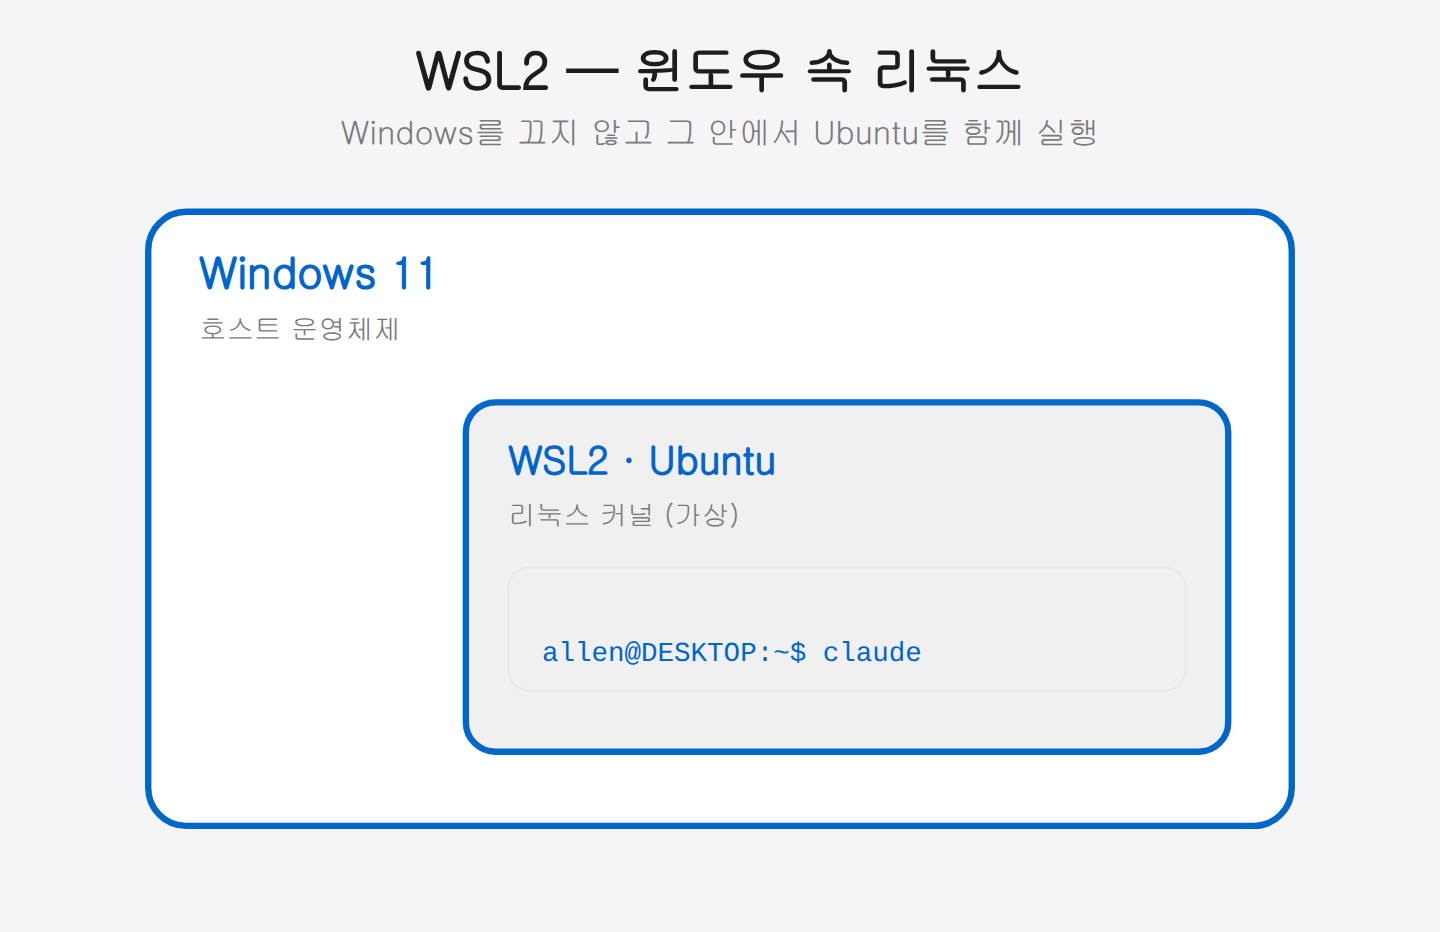
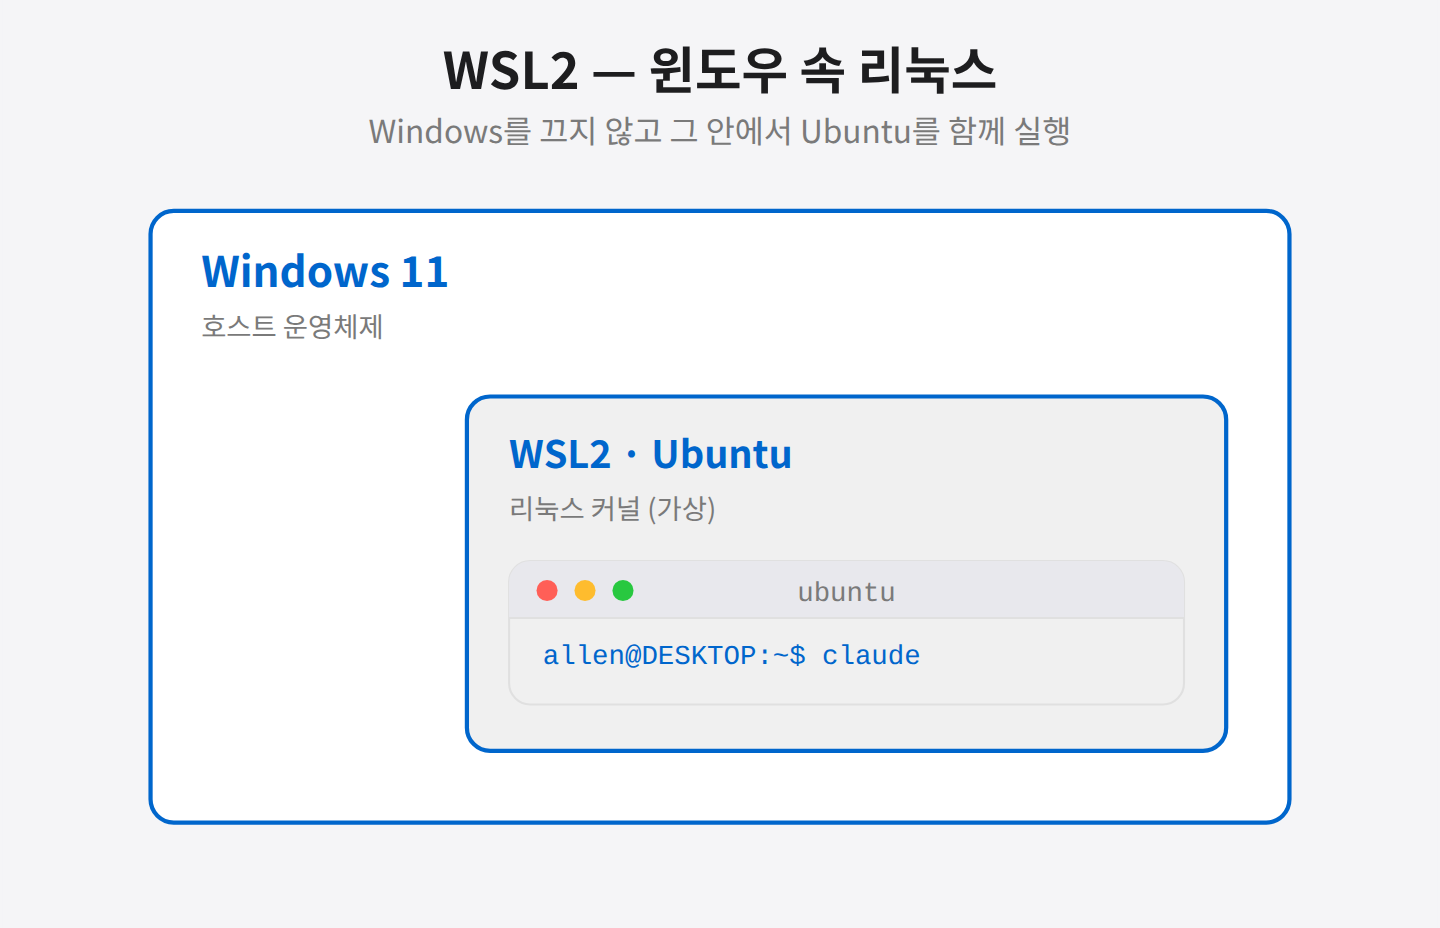
style(ch02): convert diagrams to Apple Light theme
Dark diagrams converted to Apple Light per LIGHT-MAP.md. In-place per
Allen approval. Verified dark-residual 0 (Taeyang 8x). png-only untouched.

diff --git a/assets/02-5-tmux-install-split-compare.svg.html b/assets/02-5-tmux-install-split-compare.svg.html
@@ -1,43 +1,78 @@
-<svg xmlns="http://www.w3.org/2000/svg" width="840" height="430" viewBox="0 0 840 430">
-<rect width="840" height="430" rx="0" fill="#1e1e2e"/>
-<text x="420.0" y="42" font-family="Noto Sans CJK KR, DejaVu Sans, sans-serif" font-size="24" fill="#cdd6f4" text-anchor="middle" font-weight="bold">파인 분할 — before / after</text>
-<text x="420.0" y="68" font-family="Noto Sans CJK KR, DejaVu Sans, sans-serif" font-size="15" fill="#a6adc8" text-anchor="middle" font-weight="normal">Ctrl+B %  좌우  ·  Ctrl+B "  상하</text>
-<rect x="40" y="130" width="200" height="24" rx="10" ry="10" fill="#45475a" opacity="1.0"/>
-<rect x="40" y="142.0" width="200" height="12.0" rx="0" ry="0" fill="#45475a" opacity="1.0"/>
-<circle cx="58" cy="142.0" r="5" fill="#f38ba8"/>
-<circle cx="76" cy="142.0" r="5" fill="#f9e2af"/>
-<circle cx="94" cy="142.0" r="5" fill="#a6e3a1"/>
-<text x="140.0" y="147.0" font-family="Noto Sans Mono CJK KR, DejaVu Sans Mono, monospace" font-size="14" fill="#a6adc8" text-anchor="middle" font-weight="normal">before</text>
-<rect x="40" y="130" width="200" height="200" rx="8" ry="8" fill="#181825" opacity="1.0" stroke="#45475a" stroke-width="1.5"/>
-<rect x="51.68" y="168.4" width="176.64" height="147.20000000000002" rx="5" ry="5" fill="#45475a" opacity="1.0" stroke="#89b4fa" stroke-width="1.5"/>
-<text x="140.0" y="358" font-family="Noto Sans CJK KR, DejaVu Sans, sans-serif" font-size="14" fill="#a6adc8" text-anchor="middle" font-weight="normal">파인 1개</text>
-<rect x="360" y="90" width="200" height="24" rx="10" ry="10" fill="#45475a" opacity="1.0"/>
-<rect x="360" y="102.0" width="200" height="12.0" rx="0" ry="0" fill="#45475a" opacity="1.0"/>
-<circle cx="378" cy="102.0" r="5" fill="#f38ba8"/>
-<circle cx="396" cy="102.0" r="5" fill="#f9e2af"/>
-<circle cx="414" cy="102.0" r="5" fill="#a6e3a1"/>
-<text x="460.0" y="107.0" font-family="Noto Sans Mono CJK KR, DejaVu Sans Mono, monospace" font-size="14" fill="#a6adc8" text-anchor="middle" font-weight="normal">Ctrl+B  %</text>
-<rect x="360" y="90" width="200" height="130" rx="8" ry="8" fill="#181825" opacity="1.0" stroke="#45475a" stroke-width="1.5"/>
-<rect x="371.68" y="125.6" width="86.47999999999999" height="82.8" rx="5" ry="5" fill="#45475a" opacity="1.0" stroke="#89b4fa" stroke-width="1.5"/>
-<rect x="461.84000000000003" y="125.6" width="86.47999999999999" height="82.8" rx="5" ry="5" fill="#45475a" opacity="1.0" stroke="#89b4fa" stroke-width="1.5"/>
-<text x="460" y="242" font-family="Noto Sans CJK KR, DejaVu Sans, sans-serif" font-size="14" fill="#a6e3a1" text-anchor="middle" font-weight="bold">좌우 분할</text>
-<rect x="360" y="270" width="200" height="24" rx="10" ry="10" fill="#45475a" opacity="1.0"/>
-<rect x="360" y="282.0" width="200" height="12.0" rx="0" ry="0" fill="#45475a" opacity="1.0"/>
-<circle cx="378" cy="282.0" r="5" fill="#f38ba8"/>
-<circle cx="396" cy="282.0" r="5" fill="#f9e2af"/>
-<circle cx="414" cy="282.0" r="5" fill="#a6e3a1"/>
-<text x="460.0" y="287.0" font-family="Noto Sans Mono CJK KR, DejaVu Sans Mono, monospace" font-size="14" fill="#a6adc8" text-anchor="middle" font-weight="normal">Ctrl+B  "</text>
-<rect x="360" y="270" width="200" height="130" rx="8" ry="8" fill="#181825" opacity="1.0" stroke="#45475a" stroke-width="1.5"/>
-<rect x="371.68" y="305.6" width="176.64" height="40.5" rx="5" ry="5" fill="#45475a" opacity="1.0" stroke="#89b4fa" stroke-width="1.5"/>
-<rect x="371.68" y="347.9" width="176.64" height="40.5" rx="5" ry="5" fill="#45475a" opacity="1.0" stroke="#89b4fa" stroke-width="1.5"/>
-<text x="460" y="422" font-family="Noto Sans CJK KR, DejaVu Sans, sans-serif" font-size="14" fill="#fab387" text-anchor="middle" font-weight="bold">상하 분할</text>
-<line x1="248" y1="200.0" x2="352" y2="155" stroke="#a6e3a1" stroke-width="2.6"/>
-<polygon points="352.0,155.0 346.6,162.2 343.1,154.0" fill="#a6e3a1"/>
-<line x1="248" y1="260.0" x2="352" y2="335" stroke="#fab387" stroke-width="2.6"/>
-<polygon points="352.0,335.0 343.0,334.1 348.3,326.8" fill="#fab387"/>
-<rect x="620" y="150" width="190" height="160" rx="12" ry="12" fill="#313244" opacity="1.0" stroke="#585b70" stroke-width="1.5"/>
-<text x="715" y="180" font-family="Noto Sans CJK KR, DejaVu Sans, sans-serif" font-size="15" fill="#89b4fa" text-anchor="middle" font-weight="bold">프리픽스 키</text>
-<text x="715" y="214" font-family="Noto Sans Mono CJK KR, DejaVu Sans Mono, monospace" font-size="14" fill="#cdd6f4" text-anchor="middle" font-weight="normal">Ctrl+B 를 먼저</text>
-<text x="715" y="238" font-family="Noto Sans Mono CJK KR, DejaVu Sans Mono, monospace" font-size="14" fill="#cdd6f4" text-anchor="middle" font-weight="normal">누르고 뗀 다음</text>
-<text x="715" y="270" font-family="Noto Sans Mono CJK KR, DejaVu Sans Mono, monospace" font-size="16" fill="#a6e3a1" text-anchor="middle" font-weight="bold">% 또는 "</text>
+<svg xmlns="http://www.w3.org/2000/svg" width="720" height="560" viewBox="0 0 720 560">
+  <defs>
+    <marker id="arL" viewBox="0 0 10 10" refX="9" refY="5" markerWidth="6" markerHeight="6" orient="auto">
+      <path d="M0,1 L9,5 L0,9 z" fill="#0066cc"/>
+    </marker>
+    <marker id="arR" viewBox="0 0 10 10" refX="9" refY="5" markerWidth="6" markerHeight="6" orient="auto">
+      <path d="M0,1 L9,5 L0,9 z" fill="#0066cc"/>
+    </marker>
+  </defs>
+  <rect width="720" height="560" fill="#f5f5f7"/>
+  <text x="360" y="38" font-family="Malgun Gothic, Noto Sans CJK KR, Arial, sans-serif" font-size="22" fill="#1d1d1f" text-anchor="middle" font-weight="bold">파인 분할 — before / after</text>
+  <text x="360" y="60" font-family="Courier New, Consolas, DejaVu Sans Mono, monospace" font-size="14" fill="#7a7a7a" text-anchor="middle" font-weight="normal">Ctrl+B %  좌우  ·  Ctrl+B "  상하</text>
+
+  <!-- ── BEFORE terminal (top center) ── -->
+  <!-- Window bg -->
+  <rect x="200" y="80" width="320" height="150" rx="10" ry="10" fill="#f0f0f0" stroke="#e0e0e0" stroke-width="1.5"/>
+  <!-- Title bar -->
+  <rect x="200" y="80" width="320" height="26" rx="10" ry="10" fill="#e8e8ed"/>
+  <rect x="200" y="94" width="320" height="12" rx="0" ry="0" fill="#e8e8ed"/>
+  <!-- Traffic lights -->
+  <circle cx="218" cy="93" r="5" fill="#ff5f57"/>
+  <circle cx="236" cy="93" r="5" fill="#febc2e"/>
+  <circle cx="254" cy="93" r="5" fill="#28c840"/>
+  <!-- Title -->
+  <text x="360" y="98" font-family="Courier New, Consolas, DejaVu Sans Mono, monospace" font-size="13" fill="#7a7a7a" text-anchor="middle">before</text>
+  <!-- Divider -->
+  <line x1="200" y1="106" x2="520" y2="106" stroke="#e0e0e0" stroke-width="1"/>
+  <!-- Single pane inside -->
+  <rect x="212" y="112" width="296" height="106" rx="8" ry="8" fill="#e8e8ed" stroke="#0066cc" stroke-width="1.5"/>
+  <!-- "파인 1개" label -->
+  <text x="360" y="248" font-family="Malgun Gothic, Noto Sans CJK KR, Arial, sans-serif" font-size="14" fill="#7a7a7a" text-anchor="middle" font-weight="normal">파인 1개</text>
+
+  <!-- ── Arrows from before to after states ── -->
+  <line x1="280" y1="232" x2="175" y2="290" stroke="#0066cc" stroke-width="2.4" marker-end="url(#arL)"/>
+  <line x1="440" y1="232" x2="545" y2="290" stroke="#0066cc" stroke-width="2.4" marker-end="url(#arR)"/>
+
+  <!-- ── AFTER LEFT: 좌우 분할 ── -->
+  <!-- Title bar hint -->
+  <text x="175" y="270" font-family="Courier New, Consolas, DejaVu Sans Mono, monospace" font-size="12" fill="#0066cc" text-anchor="middle">Ctrl+B  %</text>
+  <!-- Window bg -->
+  <rect x="30" y="298" width="290" height="150" rx="10" ry="10" fill="#f0f0f0" stroke="#e0e0e0" stroke-width="1.5"/>
+  <!-- Title bar -->
+  <rect x="30" y="298" width="290" height="26" rx="10" ry="10" fill="#e8e8ed"/>
+  <rect x="30" y="312" width="290" height="12" rx="0" ry="0" fill="#e8e8ed"/>
+  <!-- Traffic lights -->
+  <circle cx="48" cy="311" r="5" fill="#ff5f57"/>
+  <circle cx="66" cy="311" r="5" fill="#febc2e"/>
+  <circle cx="84" cy="311" r="5" fill="#28c840"/>
+  <line x1="30" y1="324" x2="320" y2="324" stroke="#e0e0e0" stroke-width="1"/>
+  <!-- Two side-by-side panes -->
+  <rect x="42" y="330" width="130" height="106" rx="6" ry="6" fill="#e8e8ed" stroke="#0066cc" stroke-width="1.5"/>
+  <rect x="178" y="330" width="130" height="106" rx="6" ry="6" fill="#e8e8ed" stroke="#0066cc" stroke-width="1.5"/>
+  <!-- Label -->
+  <text x="175" y="468" font-family="Malgun Gothic, Noto Sans CJK KR, Arial, sans-serif" font-size="14" fill="#0066cc" text-anchor="middle" font-weight="bold">좌우 분할</text>
+
+  <!-- ── AFTER RIGHT: 상하 분할 ── -->
+  <text x="545" y="270" font-family="Courier New, Consolas, DejaVu Sans Mono, monospace" font-size="12" fill="#0066cc" text-anchor="middle">Ctrl+B  "</text>
+  <!-- Window bg -->
+  <rect x="400" y="298" width="290" height="150" rx="10" ry="10" fill="#f0f0f0" stroke="#e0e0e0" stroke-width="1.5"/>
+  <!-- Title bar -->
+  <rect x="400" y="298" width="290" height="26" rx="10" ry="10" fill="#e8e8ed"/>
+  <rect x="400" y="312" width="290" height="12" rx="0" ry="0" fill="#e8e8ed"/>
+  <!-- Traffic lights -->
+  <circle cx="418" cy="311" r="5" fill="#ff5f57"/>
+  <circle cx="436" cy="311" r="5" fill="#febc2e"/>
+  <circle cx="454" cy="311" r="5" fill="#28c840"/>
+  <line x1="400" y1="324" x2="690" y2="324" stroke="#e0e0e0" stroke-width="1"/>
+  <!-- Two stacked panes -->
+  <rect x="412" y="330" width="266" height="50" rx="6" ry="6" fill="#e8e8ed" stroke="#0066cc" stroke-width="1.5"/>
+  <rect x="412" y="386" width="266" height="50" rx="6" ry="6" fill="#e8e8ed" stroke="#0066cc" stroke-width="1.5"/>
+  <!-- Label -->
+  <text x="545" y="468" font-family="Malgun Gothic, Noto Sans CJK KR, Arial, sans-serif" font-size="14" fill="#0066cc" text-anchor="middle" font-weight="bold">상하 분할</text>
+
+  <!-- ── Info box (프리픽스 키) ── -->
+  <rect x="195" y="490" width="330" height="56" rx="11" ry="11" fill="#ffffff" stroke="#e0e0e0" stroke-width="1.5"/>
+  <text x="360" y="512" font-family="Malgun Gothic, Noto Sans CJK KR, Arial, sans-serif" font-size="14" fill="#0066cc" text-anchor="middle" font-weight="bold">프리픽스 키</text>
+  <text x="360" y="534" font-family="Courier New, Consolas, DejaVu Sans Mono, monospace" font-size="13" fill="#1d1d1f" text-anchor="middle">Ctrl+B 먼저 누르고 뗀 후 →  %  또는  "</text>
 </svg>

diff --git a/assets/02-2-windows-wsl2-windows-in-linux.svg.html b/assets/02-2-windows-wsl2-windows-in-linux.svg.html
@@ -1,19 +1,28 @@
-<svg xmlns="http://www.w3.org/2000/svg" width="680" height="440" viewBox="0 0 680 440">
-<rect width="680" height="440" rx="0" fill="#1e1e2e"/>
-<text x="340.0" y="42" font-family="Noto Sans CJK KR, DejaVu Sans, sans-serif" font-size="24" fill="#cdd6f4" text-anchor="middle" font-weight="bold">WSL2 — 윈도우 속 리눅스</text>
-<text x="340.0" y="68" font-family="Noto Sans CJK KR, DejaVu Sans, sans-serif" font-size="15" fill="#a6adc8" text-anchor="middle" font-weight="normal">Windows를 끄지 않고 그 안에서 Ubuntu를 함께 실행</text>
-<rect x="70" y="100" width="540" height="290" rx="18" ry="18" fill="#313244" opacity="1.0" stroke="#89b4fa" stroke-width="3"/>
-<text x="94" y="136" font-family="Noto Sans CJK KR, DejaVu Sans, sans-serif" font-size="20" fill="#89b4fa" text-anchor="start" font-weight="bold">Windows 11</text>
-<text x="94" y="160" font-family="Noto Sans CJK KR, DejaVu Sans, sans-serif" font-size="13" fill="#a6adc8" text-anchor="start" font-weight="normal">호스트 운영체제</text>
-<rect x="220" y="190" width="360" height="165" rx="14" ry="14" fill="#181825" opacity="1.0" stroke="#fab387" stroke-width="3"/>
-<text x="240" y="224" font-family="Noto Sans CJK KR, DejaVu Sans, sans-serif" font-size="18" fill="#fab387" text-anchor="start" font-weight="bold">WSL2 · Ubuntu</text>
-<text x="240" y="248" font-family="Noto Sans CJK KR, DejaVu Sans, sans-serif" font-size="13" fill="#a6adc8" text-anchor="start" font-weight="normal">리눅스 커널 (가상)</text>
-<rect x="240" y="268" width="320" height="30" rx="10" ry="10" fill="#45475a" opacity="1.0"/>
-<rect x="240" y="283.0" width="320" height="15.0" rx="0" ry="0" fill="#45475a" opacity="1.0"/>
-<circle cx="258" cy="283.0" r="5" fill="#f38ba8"/>
-<circle cx="276" cy="283.0" r="5" fill="#f9e2af"/>
-<circle cx="294" cy="283.0" r="5" fill="#a6e3a1"/>
-<text x="400.0" y="288.0" font-family="Noto Sans Mono CJK KR, DejaVu Sans Mono, monospace" font-size="14" fill="#a6adc8" text-anchor="middle" font-weight="normal">ubuntu</text>
-<rect x="240" y="268" width="320" height="58" rx="10" ry="10" fill="#11111b" opacity="1.0" stroke="#45475a" stroke-width="1"/>
-<text x="256" y="312" font-family="Noto Sans Mono CJK KR, DejaVu Sans Mono, monospace" font-size="13" fill="#a6e3a1" text-anchor="start" font-weight="normal">allen@DESKTOP:~$ claude</text>
+<svg xmlns="http://www.w3.org/2000/svg" width="720" height="464" viewBox="0 0 680 440">
+  <rect width="680" height="440" fill="#f5f5f7"/>
+  <text x="340" y="42" font-family="Malgun Gothic, Noto Sans CJK KR, Arial, sans-serif" font-size="24" fill="#1d1d1f" text-anchor="middle" font-weight="bold">WSL2 — 윈도우 속 리눅스</text>
+  <text x="340" y="68" font-family="Malgun Gothic, Noto Sans CJK KR, Arial, sans-serif" font-size="15" fill="#7a7a7a" text-anchor="middle" font-weight="normal">Windows를 끄지 않고 그 안에서 Ubuntu를 함께 실행</text>
+  <!-- Windows 11 outer box -->
+  <rect x="70" y="100" width="540" height="290" rx="11" ry="11" fill="#ffffff" stroke="#0066cc" stroke-width="2"/>
+  <text x="94" y="136" font-family="Malgun Gothic, Noto Sans CJK KR, Arial, sans-serif" font-size="20" fill="#0066cc" text-anchor="start" font-weight="bold">Windows 11</text>
+  <text x="94" y="160" font-family="Malgun Gothic, Noto Sans CJK KR, Arial, sans-serif" font-size="13" fill="#7a7a7a" text-anchor="start" font-weight="normal">호스트 운영체제</text>
+  <!-- WSL2/Ubuntu inner box -->
+  <rect x="220" y="188" width="360" height="168" rx="11" ry="11" fill="#f0f0f0" stroke="#0066cc" stroke-width="2"/>
+  <text x="240" y="222" font-family="Malgun Gothic, Noto Sans CJK KR, Arial, sans-serif" font-size="18" fill="#0066cc" text-anchor="start" font-weight="bold">WSL2 · Ubuntu</text>
+  <text x="240" y="246" font-family="Malgun Gothic, Noto Sans CJK KR, Arial, sans-serif" font-size="13" fill="#7a7a7a" text-anchor="start" font-weight="normal">리눅스 커널 (가상)</text>
+  <!-- Terminal window: bg first, then title bar on top -->
+  <rect x="240" y="266" width="320" height="68" rx="10" ry="10" fill="#f0f0f0" stroke="#e0e0e0" stroke-width="1"/>
+  <!-- Title bar strip (on top of bg) -->
+  <rect x="240" y="266" width="320" height="27" rx="10" ry="10" fill="#e8e8ed"/>
+  <rect x="240" y="280" width="320" height="13" rx="0" ry="0" fill="#e8e8ed"/>
+  <!-- Traffic lights (r=5 → keep system colors per LIGHT-MAP §1) -->
+  <circle cx="258" cy="280" r="5" fill="#ff5f57"/>
+  <circle cx="276" cy="280" r="5" fill="#febc2e"/>
+  <circle cx="294" cy="280" r="5" fill="#28c840"/>
+  <!-- Title text -->
+  <text x="400" y="285" font-family="Courier New, Consolas, DejaVu Sans Mono, monospace" font-size="13" fill="#7a7a7a" text-anchor="middle" font-weight="normal">ubuntu</text>
+  <!-- Terminal divider line -->
+  <line x1="240" y1="293" x2="560" y2="293" stroke="#e0e0e0" stroke-width="1"/>
+  <!-- Terminal prompt text -->
+  <text x="256" y="315" font-family="Courier New, Consolas, DejaVu Sans Mono, monospace" font-size="13" fill="#0066cc" text-anchor="start" font-weight="normal">allen@DESKTOP:~$ claude</text>
 </svg>

diff --git a/assets/02-5-tmux-install-session-window-pane.svg.html b/assets/02-5-tmux-install-session-window-pane.svg.html
@@ -1,18 +1,24 @@
-<svg xmlns="http://www.w3.org/2000/svg" width="700" height="480" viewBox="0 0 700 480">
-<rect width="700" height="480" rx="0" fill="#1e1e2e"/>
-<text x="350.0" y="42" font-family="Noto Sans CJK KR, DejaVu Sans, sans-serif" font-size="24" fill="#cdd6f4" text-anchor="middle" font-weight="bold">TMUX 3계층 구조</text>
-<text x="350.0" y="68" font-family="Noto Sans CJK KR, DejaVu Sans, sans-serif" font-size="15" fill="#a6adc8" text-anchor="middle" font-weight="normal">세션 ⊃ 윈도우 ⊃ 파인</text>
-<rect x="70" y="100" width="560" height="320" rx="18" ry="18" fill="#313244" opacity="1.0" stroke="#89b4fa" stroke-width="3"/>
-<text x="94" y="136" font-family="Noto Sans CJK KR, DejaVu Sans, sans-serif" font-size="20" fill="#89b4fa" text-anchor="start" font-weight="bold">세션 (Session)</text>
-<text x="94" y="158" font-family="Noto Sans CJK KR, DejaVu Sans, sans-serif" font-size="13" fill="#a6adc8" text-anchor="start" font-weight="normal">최상위 단위 · 닫아도 백그라운드 유지</text>
-<rect x="110" y="178" width="480" height="210" rx="14" ry="14" fill="#181825" opacity="1.0" stroke="#fab387" stroke-width="2"/>
-<text x="130" y="210" font-family="Noto Sans CJK KR, DejaVu Sans, sans-serif" font-size="18" fill="#fab387" text-anchor="start" font-weight="bold">윈도우 (Window)</text>
-<text x="130" y="230" font-family="Noto Sans CJK KR, DejaVu Sans, sans-serif" font-size="12.5" fill="#a6adc8" text-anchor="start" font-weight="normal">세션 안의 탭 · 전체 화면 하나</text>
-<rect x="134" y="246" width="210.0" height="118" rx="10" ry="10" fill="#45475a" opacity="1.0" stroke="#a6e3a1" stroke-width="2"/>
-<text x="239.0" y="310.0" font-family="Noto Sans CJK KR, DejaVu Sans, sans-serif" font-size="16" fill="#a6e3a1" text-anchor="middle" font-weight="bold">파인 0</text>
-<rect x="356.0" y="246" width="210.0" height="53.0" rx="10" ry="10" fill="#45475a" opacity="1.0" stroke="#a6e3a1" stroke-width="2"/>
-<text x="461.0" y="277.5" font-family="Noto Sans CJK KR, DejaVu Sans, sans-serif" font-size="16" fill="#a6e3a1" text-anchor="middle" font-weight="bold">파인 1</text>
-<rect x="356.0" y="311.0" width="210.0" height="53.0" rx="10" ry="10" fill="#45475a" opacity="1.0" stroke="#a6e3a1" stroke-width="2"/>
-<text x="461.0" y="342.5" font-family="Noto Sans CJK KR, DejaVu Sans, sans-serif" font-size="16" fill="#a6e3a1" text-anchor="middle" font-weight="bold">파인 2</text>
-<text x="350.0" y="386" font-family="Noto Sans CJK KR, DejaVu Sans, sans-serif" font-size="13" fill="#a6e3a1" text-anchor="middle" font-weight="normal">파인 (Pane) — 각자 독립 쉘</text>
+<svg xmlns="http://www.w3.org/2000/svg" width="720" height="494" viewBox="0 0 700 480">
+  <rect width="700" height="480" fill="#f5f5f7"/>
+  <text x="350" y="42" font-family="Malgun Gothic, Noto Sans CJK KR, Arial, sans-serif" font-size="24" fill="#1d1d1f" text-anchor="middle" font-weight="bold">TMUX 3계층 구조</text>
+  <text x="350" y="68" font-family="Malgun Gothic, Noto Sans CJK KR, Arial, sans-serif" font-size="15" fill="#7a7a7a" text-anchor="middle" font-weight="normal">세션 ⊃ 윈도우 ⊃ 파인</text>
+  <!-- Session box (outermost) -->
+  <rect x="70" y="100" width="560" height="320" rx="11" ry="11" fill="#ffffff" stroke="#0066cc" stroke-width="2"/>
+  <text x="94" y="136" font-family="Malgun Gothic, Noto Sans CJK KR, Arial, sans-serif" font-size="20" fill="#0066cc" text-anchor="start" font-weight="bold">세션 (Session)</text>
+  <text x="94" y="158" font-family="Malgun Gothic, Noto Sans CJK KR, Arial, sans-serif" font-size="13" fill="#7a7a7a" text-anchor="start" font-weight="normal">최상위 단위 · 닫아도 백그라운드 유지</text>
+  <!-- Window box -->
+  <rect x="110" y="178" width="480" height="210" rx="11" ry="11" fill="#f0f0f0" stroke="#0066cc" stroke-width="1.5"/>
+  <text x="130" y="210" font-family="Malgun Gothic, Noto Sans CJK KR, Arial, sans-serif" font-size="18" fill="#0066cc" text-anchor="start" font-weight="bold">윈도우 (Window)</text>
+  <text x="130" y="230" font-family="Malgun Gothic, Noto Sans CJK KR, Arial, sans-serif" font-size="12.5" fill="#7a7a7a" text-anchor="start" font-weight="normal">세션 안의 탭 · 전체 화면 하나</text>
+  <!-- Pane 0 (left, tall) -->
+  <rect x="134" y="246" width="210" height="118" rx="10" ry="10" fill="#e8e8ed" stroke="#0066cc" stroke-width="1.5"/>
+  <text x="239" y="310" font-family="Malgun Gothic, Noto Sans CJK KR, Arial, sans-serif" font-size="16" fill="#0066cc" text-anchor="middle" font-weight="bold">파인 0</text>
+  <!-- Pane 1 (right top) -->
+  <rect x="356" y="246" width="210" height="53" rx="10" ry="10" fill="#e8e8ed" stroke="#0066cc" stroke-width="1.5"/>
+  <text x="461" y="278" font-family="Malgun Gothic, Noto Sans CJK KR, Arial, sans-serif" font-size="16" fill="#0066cc" text-anchor="middle" font-weight="bold">파인 1</text>
+  <!-- Pane 2 (right bottom) -->
+  <rect x="356" y="311" width="210" height="53" rx="10" ry="10" fill="#e8e8ed" stroke="#0066cc" stroke-width="1.5"/>
+  <text x="461" y="343" font-family="Malgun Gothic, Noto Sans CJK KR, Arial, sans-serif" font-size="16" fill="#0066cc" text-anchor="middle" font-weight="bold">파인 2</text>
+  <!-- Bottom label inside window box -->
+  <text x="350" y="386" font-family="Malgun Gothic, Noto Sans CJK KR, Arial, sans-serif" font-size="13" fill="#0066cc" text-anchor="middle" font-weight="normal">파인 (Pane) — 각자 독립 쉘</text>
 </svg>